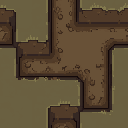
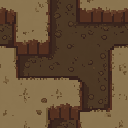
야영지로 갈아엎는다 — 마른 풀 바닥 + 돌담·횃불·헛간·통나무·덤불·바위
병수님: "야영지는 한번 싹 갈아엎어야할듯,, 내가 아까줬던 디아블로 야영지 느낌"

**소품 생성기를 바꿨다.** create_map_object 는 야영지 소품에서 두 번 다 장면을
그렸다 — 「무릎 높이 돌담」이 문 달린 벽, 「통나무 더미」가 불 피운 실내, 2차에는
「건물 아님」을 못박았는데 오히려 캐릭터까지 넣어 왔다. 그 도구는 맵 오브젝트를
**작은 건축물**로 이해한다. 한 장짜리 스프라이트는 pixflux(REST)가 맞다.

★ pixflux 에서 422 의 범인은 `no_background` 가 아니라 **`detail` 값**이었다 —
이 도구는 'highly detailed' 만 받는다(create_map_object 는 'high detail').
**열쇠 이름이 같아도 허용값은 도구마다 다르다** — 오늘 세 번째로 밟았다.
그리고 `no_background:true` 를 빠뜨리면 배경이 통째로 박혀 나온다.

- assets/camp/: wall_a · wall_b · logs · shrub · rock (pixflux) + torch · shed (1차)
- 바닥: 마른 풀 타일셋. all-lower 자동 추출이 흙 칸을 집길래 **한 재질로만 찬 칸**
  (밝기 분산이 제일 작은 것)을 골라 쓴다
- 이 어휘를 **둘레에 두르지 않는다** — 「마을에 테두리 없애라」와 부딪히므로
  들판에 흩어진 잔해로 뿌린다. 장대 횃불은 불그릇이 꼭대기라 빛 자리도 위로

★ 이 저장소를 **다른 세션이 동시에 고치고 있다.** CAMP_DECOR 가 두 번 선언돼
있어서 합쳤다(23:22 의 forge.png 변경과 같은 출처로 보인다).

diff --git a/js/main.js b/js/main.js
@@ -631,7 +631,10 @@ preload(["char/necro", "minion/skel", "minion/ghoul", "minion/golem",
 /* ★ 조명을 걷었으니 **바닥 밝기가 그대로 화면 밝기**다. 던전은 어둡게(1.55),
    마을은 원본이 이미 밝아 오히려 낮춘다(0.72) — 어둠은 조명이 아니라 여기서 만든다. */
 loadFloor("assets/floor/crypt_tile.png", 0.95, "crypt");
-loadFloor("assets/floor/town_tile.png", 0.55, "town");
+/* ★ 마을 바닥을 **야영지 마른 풀**로 바꾼다(병수님이 준 D2 로그 야영지 화면).
+   갈색 흙 한 가지는 「공터」로 읽혔다 — 마른 풀빛이라야 야영지가 된다.
+   원본 평균 110 이라 0.70 을 곱해 70 안팎 — 던전(40~60)보다 밝고 눈이 안 시리다. */
+loadFloor("assets/floor/camp_tile.png", 0.70, "town");
 loadDecor();
 loadDecals();                   // 바닥 얼룩 — 격자를 끊는다(js/ground.js)
 loadTown();

diff --git a/tools/pixellab/pixflux.py b/tools/pixellab/pixflux.py
@@ -1,0 +1,82 @@
+#!/usr/bin/env python3
+"""작은 소품은 **pixflux(REST)** 로 굽는다.
+
+★★ `create_map_object` 는 야영지 소품에서 두 번 다 **장면**을 그렸다 — 「무릎 높이
+돌담」이 문 달린 벽이 되고, 「통나무 더미」가 불 피운 실내가 됐다. 「건물 아님·불
+아님」을 문장으로 못박은 2차는 오히려 캐릭터까지 넣어 왔다. 그 도구는 **맵 오브젝트
+= 작은 건축물**로 이해한다.
+
+pixflux 는 **한 장짜리 스프라이트** 생성기라 「그 물건 하나」에 가깝다. 대신
+스키마가 다르다 — `detail`/`no_background` 같은 열쇠를 넣으면 **422** 다.
+★ 422 의 범인은 `no_background` 가 아니라 **`detail` 값**이었다 — 이 도구는
+`'low detail' | 'medium detail' | 'highly detailed'` 만 받는다(create_map_object 는
+`high detail`). **열쇠 이름이 같아도 허용값은 도구마다 다르다** — 세 번째로 밟았다.
+`no_background:true` 를 안 넣으면 **배경이 통째로 박혀 나온다**(1차가 그랬다).
+
+  python3 tools/pixellab/pixflux.py            # 아직 없는 것만
+"""
+import base64, json, os, sys, urllib.request, urllib.error
+
+ROOT = os.path.abspath(os.path.join(os.path.dirname(os.path.abspath(__file__)), "..", ".."))
+OUT  = os.path.join(ROOT, "assets", "camp")
+URL  = "https://api.pixellab.ai/v1/generate-image-pixflux"
+
+TONE = ("Diablo 2 dark fantasy pixel art, desaturated grey and brown, "
+        "worn and weathered, grim gothic")
+NEG  = ("building, house, door, doorway, arch, gate, roof, room, interior, floor tiles, "
+        "fire, flame, torch light, glow, character, person, people, text, frame, border, "
+        "ground, terrain, grass field, multiple objects, grid")
+
+OBJ = {
+  "wall_a": ("a short straight section of low dry-stone wall, rough grey fieldstones stacked "
+             "without mortar, knee high, both ends broken off, seen from above at an angle",
+             160, 80),
+  "wall_b": ("a crumbling corner piece of a low dry-stone wall, half collapsed with fallen "
+             "stones at its foot, seen from above at an angle", 128, 96),
+  "logs":   ("a stack of cut logs piled crosswise with bark still on them, "
+             "seen from above at an angle", 112, 80),
+  "shrub":  ("a low dry thorny bush with bare twisted branches and a few brown leaves, "
+             "muted olive brown, seen from above at an angle", 88, 80),
+  "rock":   ("a single large weathered grey boulder half sunk into nothing, cracked surface, "
+             "seen from above at an angle", 96, 80),
+}
+
+
+def auth():
+    cfg = json.load(open(os.path.expanduser("~/.config/opencode/opencode.json")))
+    return cfg["mcp"]["pixellab"]["headers"]["Authorization"]
+
+
+def gen(desc, w, h):
+    body = {"description": f"{TONE}, {desc}",
+            "negative_description": NEG,
+            "image_size": {"width": w, "height": h},
+            "no_background": True,                 # ★ 이거 없으면 배경이 박힌다
+            "outline": "single color outline",
+            "shading": "detailed shading",
+            "detail": "highly detailed"}           # ★ 'high detail' 은 422
+    req = urllib.request.Request(URL, data=json.dumps(body).encode(),
+                                 headers={"Authorization": auth(),
+                                          "Content-Type": "application/json"})
+    r = json.load(urllib.request.urlopen(req, timeout=300))
+    return base64.b64decode(r["image"]["base64"])
+
+
+if __name__ == "__main__":
+    only = [a for a in sys.argv[1:] if not a.startswith("--")]
+    force = "--force" in sys.argv
+    os.makedirs(OUT, exist_ok=True)
+    for k, (desc, w, h) in OBJ.items():
+        if only and k not in only:
+            continue
+        dst = os.path.join(OUT, k + ".png")
+        if os.path.exists(dst) and not force:
+            print(f"이미 있음 {k}", flush=True); continue
+        try:
+            open(dst, "wb").write(gen(desc, w, h))
+            print(f"받음 {k} ({w}x{h})", flush=True)
+        except urllib.error.HTTPError as e:
+            print(f"실패 {k} — {e.code} {e.read().decode()[:200]}", flush=True)
+        except Exception as e:
+            print(f"실패 {k} — {type(e).__name__} {str(e)[:150]}", flush=True)
+    print("══ 끝", flush=True)
